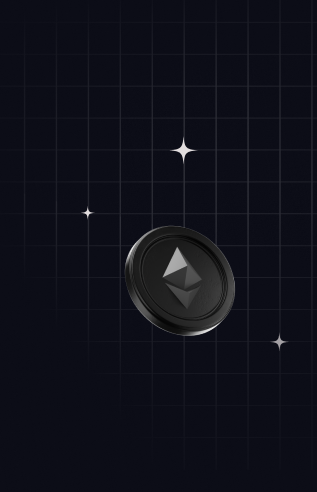
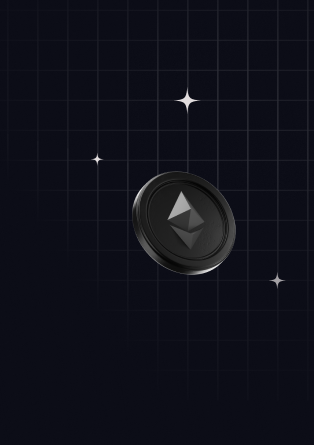
updating the MianContentWrapper

diff --git a/src/app/components/Start/Start.jsx b/src/app/components/Start/Start.jsx
@@ -4,7 +4,6 @@ import { Icon } from "@iconify/react";
 import {
   Box,
   Button,
-  Grid,
   Typography,
   useTheme,
   useMediaQuery,
@@ -16,28 +15,30 @@ const Start = () => {
   const isSmall = useMediaQuery(theme.breakpoints.down("sm"));
   const isMedium = useMediaQuery(theme.breakpoints.between("sm", "md"));
 
-  const getLeftImageWidth = () => {
-    if (isSmall) return 100;
-    if (isMedium) return 150;
-    return 200;
-  };
-
   const getRightImageWidth = () => {
     if (isSmall) return 60;
     if (isMedium) return 120;
     return 200;
   };
-  const getLeftImageHight = () => {
-    if (isSmall) return 100;
-    if (isMedium) return 150;
-    return 200;
-  };
+  
 
   const getRightImageHight = () => {
     if (isSmall) return 60;
-    if (isMedium) return 120;
+    if (isMedium) return 80;
     return 200;
   };
+
+  const getLeftImageHight = () => {
+    if (isSmall) return 130;
+    if (isMedium) return 120;
+    return 220;
+  };
+
+  const getLeftImageWidth = () => {
+    if (isSmall) return 80;
+    if (isMedium) return 180;
+    return 170;
+  }; 
 
   return (
     <Box
@@ -122,7 +123,7 @@ const Start = () => {
       <Box
         sx={{
           position: "absolute",
-          top: {xs: -20 , md: 0},
+          top: {xs: -20 , md: -40 ,lg: 20},
           width: "80%",
           display: "flex",
           justifyContent: "space-between",
@@ -133,14 +134,14 @@ const Start = () => {
       >
         <Image
           src="/Photos/bggoldcoin.png"
-          width={getLeftImageHight()}
-          height={getLeftImageHight()}
+          width={getRightImageWidth()}
+          height={getRightImageHight()}
           alt="gold coin"
         />
         <Image
           src="/Photos/bgblackcoin.png"
-          height={getRightImageHight()}
-          width={getRightImageWidth()}
+          height={getLeftImageHight()}
+          width={getLeftImageWidth()}
           alt="black coin"
         />
       </Box>

diff --git a/src/app/components/NewChallenges/MainNewChallenges.jsx b/src/app/components/NewChallenges/MainNewChallenges.jsx
@@ -20,17 +20,17 @@ const MainNewChallenges = () => {
   return (
     <Grid
       my={{ xs: 0, sm: 0, md: 10 }}
-      height={isSmall ? "100vh" : "45vh"}
+      height={isSmall ? "100vh" : "40vh"}
       container
       bgcolor="#272935"
       px={{ xs: 2, sm: 4, md: 10 }}
-      py={{ xs: 3, sm: 5, md: 0 }}
+      py={{ xs: 3, sm: 5, md: 2 }}
       spacing={2}
       alignItems="center"
       justifyContent="space-between"
       direction={{ xs: "column", md: "row" }}
     >
-      <Grid item xs={12} md={6} mt={{ xs: 0, sm: 0, md: -7 }}>
+      <Grid size={{ xs: 12, md: 6 }} mt={{ xs: 0, sm: 0, md: -7 }}>
         <Box display="flex" alignItems="center" mb={2}>
           <Icon icon="streamline-sharp:star-2-solid" width="28" height="28" />
           <Typography
@@ -98,18 +98,14 @@ const MainNewChallenges = () => {
         </Box>
       </Grid>
 
-      <Grid
-        item
-        xs={12}
-        md={6}
+      <Grid size={{ xs: 12, md: 5 }}
         textAlign="center"
-        mt={{ xs: 0, sm: 0, md: -3 }}
       >
         <Image
           src="/Photos/phone.png"
           alt="Phone"
-          width={isSmall ? 300 : isMedium ? 400 : 600}
-          height={isSmall ? 200 : isMedium ? 280 : 400}
+          width={isSmall ? 300 : isMedium ? 900 : 8000}
+          height={isSmall ? 200 : isMedium ? 380 : 600}
           style={{ maxWidth: "100%", height: "auto" }}
         />
       </Grid>

diff --git a/src/app/globals.css b/src/app/globals.css
@@ -13,21 +13,47 @@ html {
   color-scheme: dark;
 }
 
+::-webkit-scrollbar {
+  width: 8px;
+  height: 10px;
+}
+
+::-webkit-scrollbar-track {
+  background: #1e1f2a;
+  border-radius: 10px;
+}
+
+::-webkit-scrollbar-thumb {
+  background-color: #00cc99;
+  border-radius: 10px;
+  border: 2px solid #1e1f2a;
+}
+
+::-webkit-scrollbar-thumb:hover {
+  background-color: #00b386;
+}
+
+* {
+}
 body,
 * {
   font-family: "Peyda";
   margin: 0;
   padding: 0;
+  overflow-x: none;
   color: #ffffff;
+  scrollbar-width: thin;
+  scrollbar-color: #00cc99 #1e1f2a;
+  
 }
 
 body {
-  background-color: #0C0D17 !important;
+  background-color: #0c0d17 !important;
   overflow-y: auto;
 }
 
 body {
-  -ms-overflow-style:unset;
+  -ms-overflow-style: unset;
 }
 
 input[type="number"]::-webkit-inner-spin-button,
@@ -47,5 +73,5 @@ input[type="number"] {
 .MuiListItem-root {
   font-family: "Peyda", "Roboto", sans-serif !important;
   direction: rtl;
-  text-align: right ;
+  text-align: right;
 }

diff --git a/src/app/components/Features/FeatureItems.jsx b/src/app/components/Features/FeatureItems.jsx
@@ -65,16 +65,16 @@ const FeatureItems = () => {
           width={{ xs: "100%", md: "60%" }}
           mt={{ xs: 3, md: 0 }}
           sx={{
-            overflowX: { xs: "auto", sm: "auto" }, // Scroll on xs, no scroll on sm+
-            whiteSpace: { xs: "nowrap", sm: "nowrap" }, // Prevent text wrapping on xs
-            "&::-webkit-scrollbar": { height: "2px" }, // Scrollbar styling
+            overflowX: { xs: "auto", sm: "auto" },
+            whiteSpace: { xs: "nowrap", sm: "nowrap" },
+            "&::-webkit-scrollbar": { height: "2px" },
             "&::-webkit-scrollbar-thumb": {
               backgroundColor: "#00014",
               borderRadius: "4px",
             },
           }}
         >
-          <Grid container spacing={1} minWidth={{ xs: "620px", sm: "650px" }}>
+          <Grid container spacing={1} minWidth={{ xs: "620px", sm: "600px" }}>
             <Grid item xs={12} sm={6}>
               <Box
                 display="flex"

diff --git a/src/app/components/Hedear/MainHeader.jsx b/src/app/components/Hedear/MainHeader.jsx
@@ -20,7 +20,7 @@ const MainHeader = () => {
   const handleToggleDrawer = () => setDrawerOpen(!drawerOpen);
 
   return (
-    <Box sx={{ px: { xs: 2, sm: 4 , md: 10}, py: 2, width: "100%"}}>
+    <Box sx={{ px: { xs: 2, sm: 4 , md: 10}, pr:{ xs: 0, sm: 0 , md: 10},  py: 2, width: "100%"}}>
       {!isMobile ? (
         <Grid container alignItems="center" justifyContent="space-between">
           <Grid item width={'33%'}>
@@ -34,7 +34,7 @@ const MainHeader = () => {
           </Grid>
         </Grid>
       ) : (
-        <Grid container alignItems="center" justifyContent="space-between" mt={-3} mr={-1} ml={2}>
+        <Grid container alignItems="center" justifyContent="space-between" >
           <Grid item>
             <Box onClick={handleToggleDrawer} sx={{ cursor: "pointer" }}>
               <Icon

diff --git a/src/app/page.module.css b/src/app/page.module.css
@@ -81,17 +81,6 @@
   font-weight: 500;
 }
 
-a.primary {
-  background: var(--foreground);
-  color: var(--background);
-  gap: 8px;
-}
-
-a.secondary {
-  border-color: var(--gray-alpha-200);
-  min-width: 158px;
-}
-
 .footer {
   grid-row-start: 3;
   display: flex;
@@ -126,11 +115,6 @@ a.secondary {
   }
 }
 
-@media (max-width: 600px) {
-  .page {
-    padding: 32px;
-    padding-bottom: 80px;
-  }
 
   .main {
     align-items: center;
@@ -144,22 +128,12 @@ a.secondary {
     flex-direction: column;
   }
 
-  .ctas a {
-    font-size: 14px;
-    height: 40px;
-    padding: 0 16px;
-  }
-
-  a.secondary {
-    min-width: auto;
-  }
-
   .footer {
     flex-wrap: wrap;
     align-items: center;
     justify-content: center;
   }
-}
+
 
 @media (prefers-color-scheme: dark) {
   .logo {

diff --git a/src/app/components/MainContentWrapper/MainContentWrapper.jsx b/src/app/components/MainContentWrapper/MainContentWrapper.jsx
@@ -6,19 +6,23 @@ const MainContentWrapper = ({ children }) => {
       sx={{
         flexGrow: 1,
         width: "100%",
-        maxWidth: {
-          xs: "100%",
-          sm: "600px",
-          md: "900px",
-          lg: "1200px",
-          xl: "1400px",
-        },
-        margin: "0 auto",
-        boxSizing: "border-box",
-        minHeight: "calc(100vh - 80px)",
       }}
     >
-      {children}
+      <Box
+        sx={{
+          maxWidth: {
+            xs: "90%",
+            sm: "800px",
+            md: "850px",
+            lg: "1200px",
+          },
+          mx: "auto",
+          boxSizing: "border-box",
+          minHeight: "calc(100vh - 80px)",
+        }}
+      >
+        {children}
+      </Box>
     </Box>
   );
 };

diff --git a/src/app/components/Traderx/TraderX.jsx b/src/app/components/Traderx/TraderX.jsx
@@ -16,18 +16,19 @@ const Traderx = () => {
           lg: 10,
           xl: 12,
         },
-        py: { xs: 6, sm: 8, md: 5 },
+        py: { xs: 6, sm: 8, md: 3 },
         pb: { xs: 6, sm: 8, md: 15 },
       }}
     >
       <Grid
         container
-        spacing={4}
+        spacing={1}
         alignItems="center"
         justifyContent="space-between"
         flexDirection={{ xs: "column", md: "row" }}
+        width={{ md: 600}}
       >
-        <Grid item xs={12} md={6}>
+        <Grid width={'70%'}>
           <Box
             width="fit-content"
             display="flex"

diff --git a/src/app/page.js b/src/app/page.js
@@ -15,7 +15,7 @@ import MainFooter from "./components/Footer/MainFooter";
 
 const page = () => {
   return (
-    <Grid p={{ xs: 1, md: 3 }}>
+    <Grid width={"100%"}>
       <MainHeader />
       <Start />
       <MainFeatures />
@@ -24,7 +24,7 @@ const page = () => {
       <MainChallenges />
       <SlideShow />
       <BlogSection />
-      <MainTraderx />
+        <MainTraderx />
       <MainUserComments />
       <MainNewChallenges />
       <MainDisclaimer />

diff --git a/src/app/components/Traderx/MainTraderx.jsx b/src/app/components/Traderx/MainTraderx.jsx
@@ -13,8 +13,8 @@ const MainTraderx = () => {
 
   return (
     <Grid
-      height={isSmall ? 900 : isMedium ? (80 ? isLarge : 250) : 420}
-      sx={{ width: "auto" }}
+      height={isSmall ? 900 : isMedium ? (80 ? isLarge : 250) : 380}
+      // sx={{ width: "20vh" }}
       bgcolor={"#272935"}
       container
       my={15}
